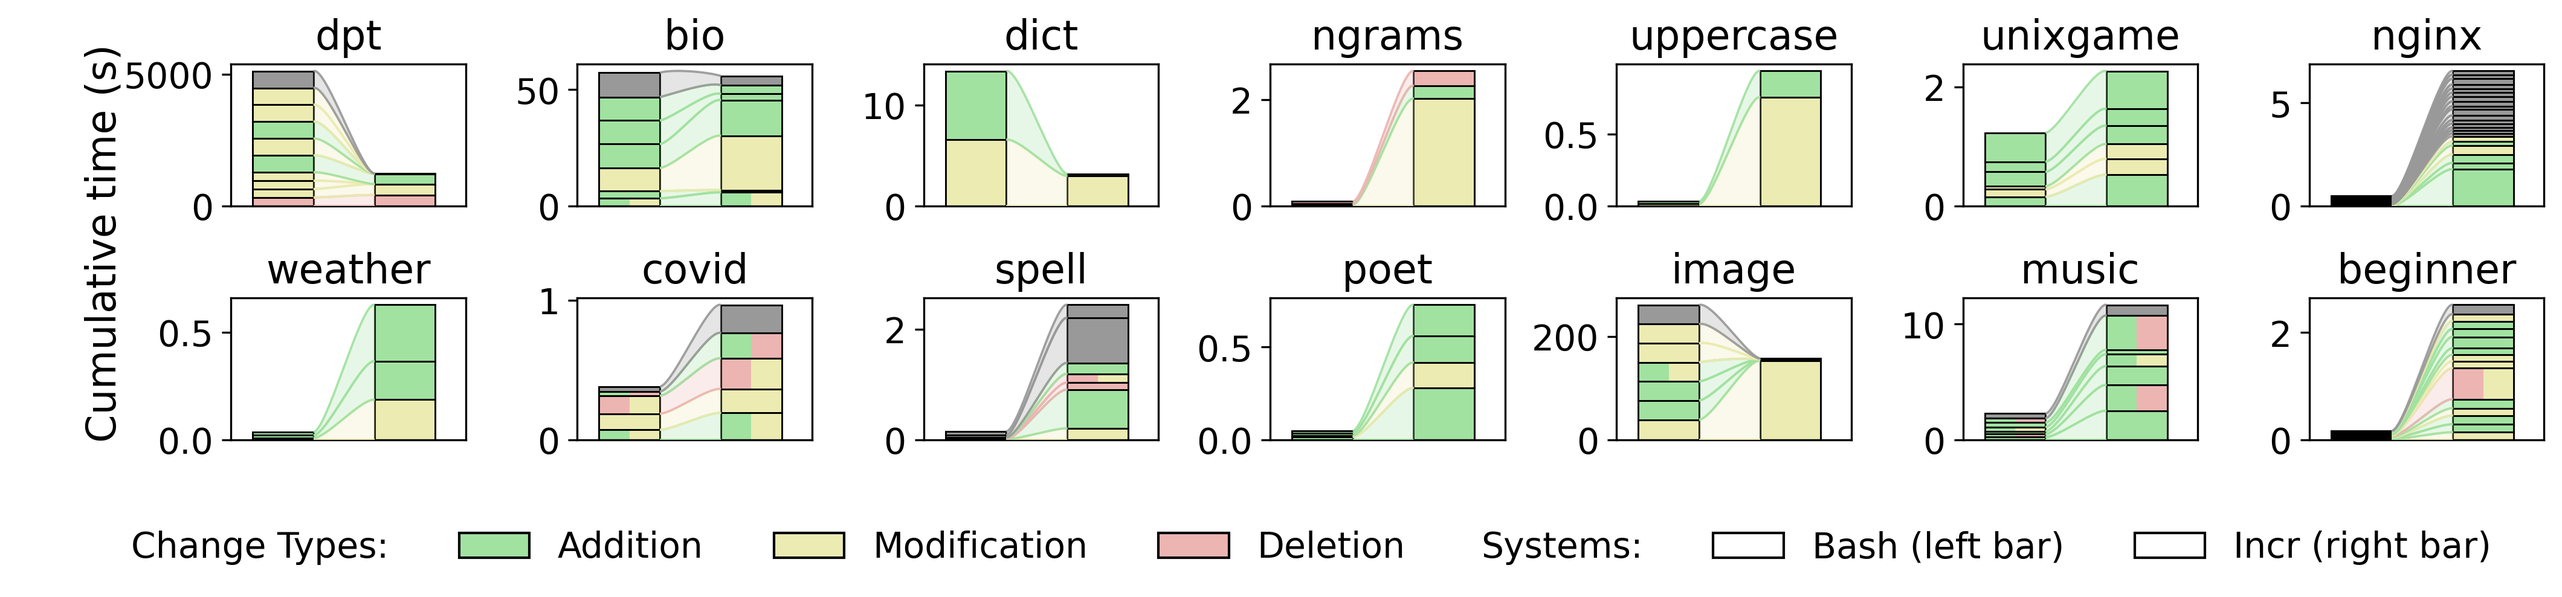
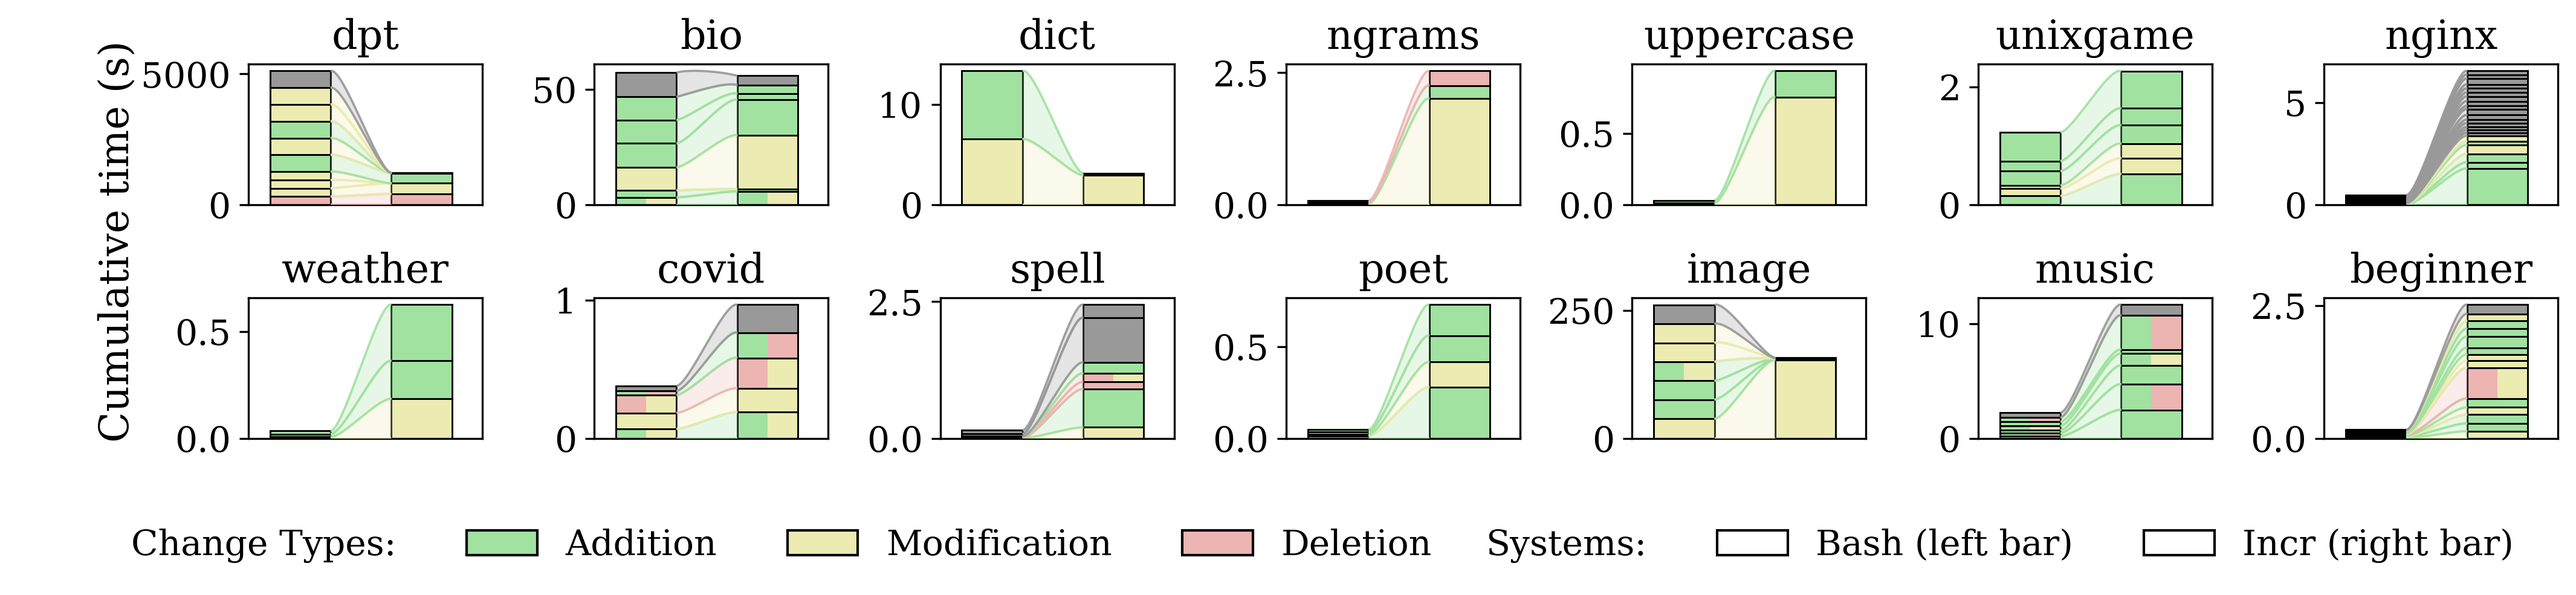
Update plots and script

diff --git a/evaluation/scripts/perf-bars-color.py b/evaluation/scripts/perf-bars-color.py
@@ -19,13 +19,10 @@ from matplotlib.path import Path as MplPath
 from delta_classification import BENCHMARKS, BENCHMARKS_TO_NAMES, DELTAS
 
 
-plt.rcParams["font.family"] = "Times New Roman"
-plt.rcParams["mathtext.fontset"] = "custom"
-plt.rcParams["mathtext.rm"] = "Times New Roman"
-plt.rcParams["mathtext.it"] = "Times New Roman:italic"
-plt.rcParams["mathtext.bf"] = "Times New Roman:bold"
-plt.rcParams["pdf.fonttype"] = 42
+
 plt.rcParams["ps.fonttype"] = 42
+plt.rcParams['font.family'] = 'serif'
+plt.rcParams['font.serif'] = ['DejaVu Serif']  # default available
 
 CHANGE_TYPE_COLORS = {
     "add": "#a1e2a1",
